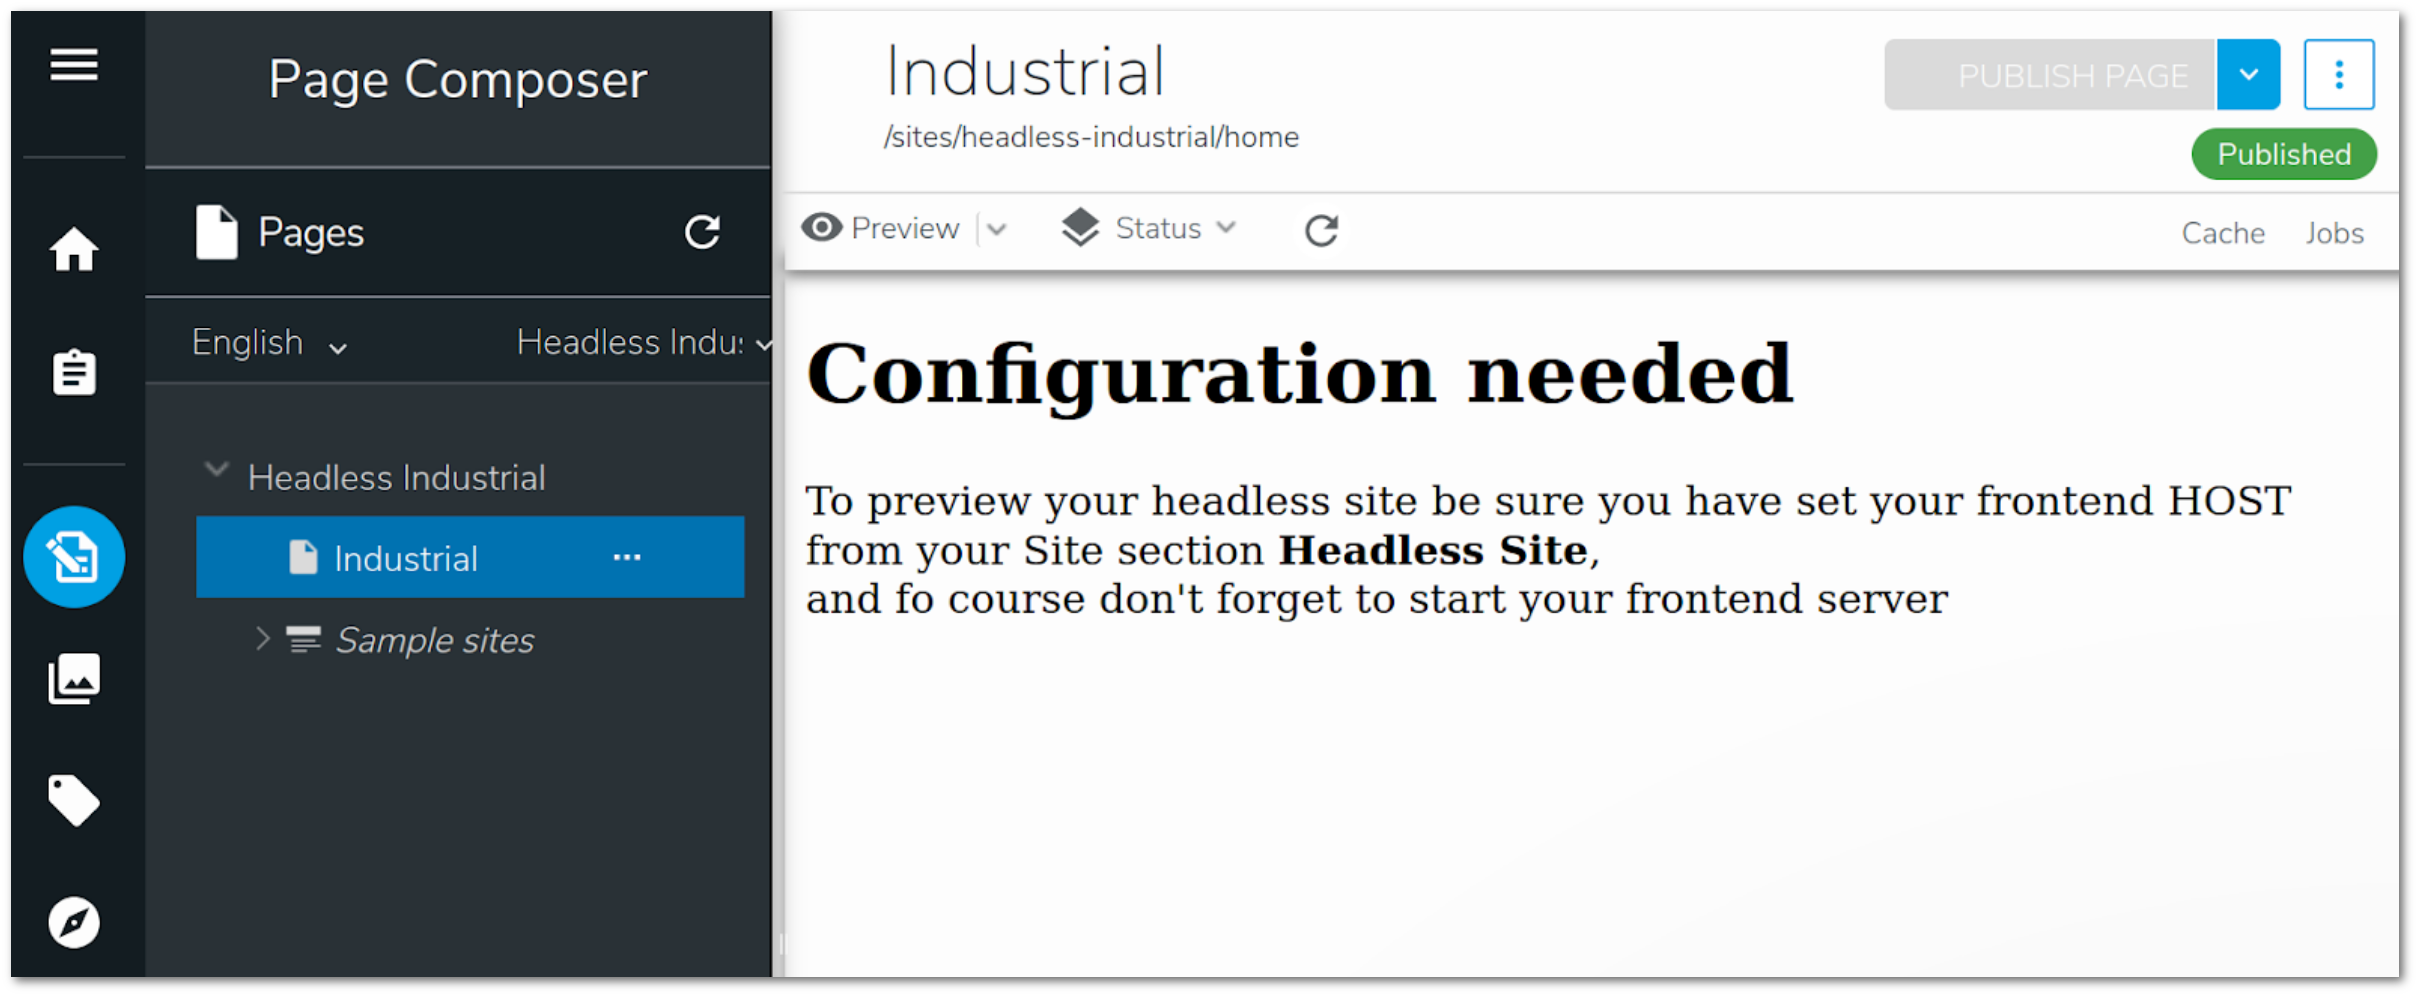
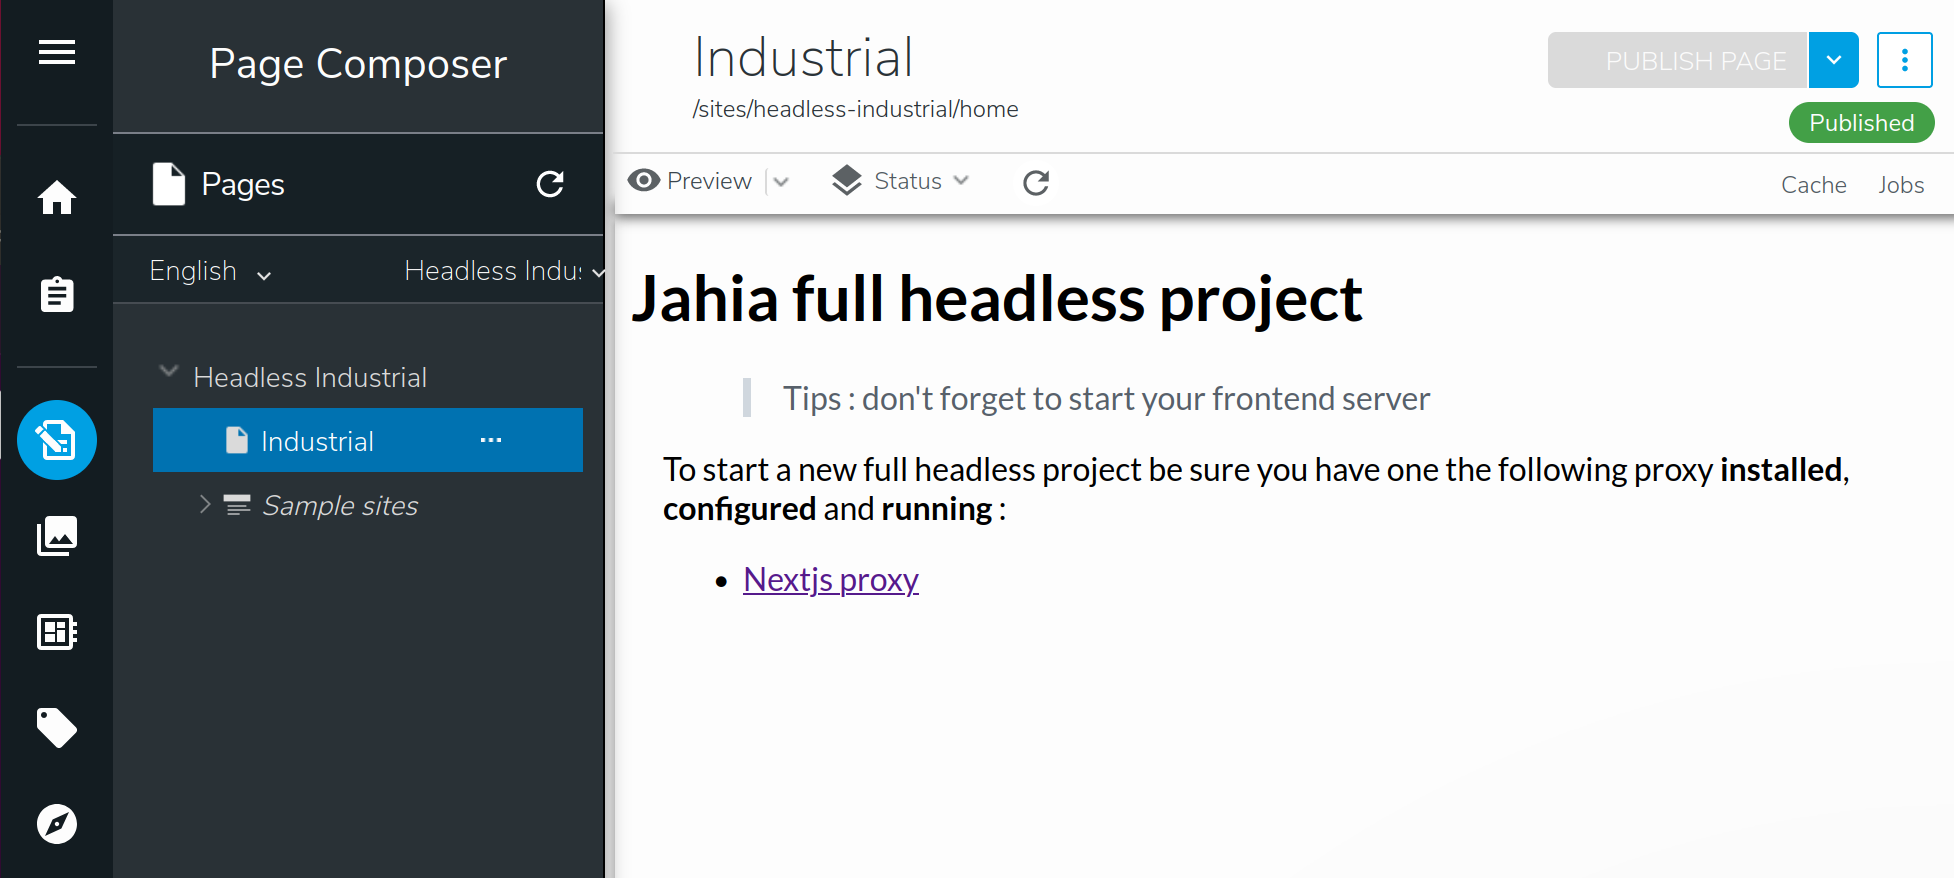
update doc & images

Changed region(s): [[0.0, 0.0, 1.0, 1.0], [0.3746, 0.6458, 0.4683, 0.6765]]

diff --git a/doc/setup.md b/doc/setup.md
@@ -20,6 +20,7 @@ The website you will deploy is inspired by the Industrial template.
     - [Configure nexus credential](#configure-nexus-credential)
     - [Start](#start)
 - [Cloud Setup](#cloud-setup)
+  - [Overview](#deployment-overview)
   - [Jahia](#jahia)
     - [Personal API Token](#personal-api-token)
     - [Jahia provisioning](#jahia-provisioning)
@@ -35,7 +36,7 @@ The website you will deploy is inspired by the Industrial template.
   - [Jahia Post-configuration](#jahia-post-configuration)
     - [Configure access to vercel site in Jahia](#configure-access-to-vercel-site-in-jahia)
   - [Handle CORS issue](#handle-cors-issue)
-    - [Yaml configuration file](#yaml-configuration-file)
+    - [Json configuration script](#json-configuration-script)
     - [Call the provisioning API](#call-the-provisioning-api)
 
 ## Modules involved
@@ -43,6 +44,7 @@ Three modules are required to contribute a website in Jahia and to render it in 
 Two modules are deployed in Jahia and one module is deployed in Vercel.
 
 - [headless-templatesSet] : a Jahia Templates Set for headless projects.
+- [nextjs-proxy]: a Jahia modules used to manage Nextjs website in Jahia
 - [jahia-industrial] : this module contains the content definitions to create
 components related to the industrial HTML template.
 - [nextjs-industrial] : this module contains the page templates and content views
@@ -61,15 +63,16 @@ Clone this module in your local file system
 ```shell
 git clone git@github.com:Jahia/jahia-nextjs-initiative.git
 ```
-move to the jahia-nextjs-initiative/[docker-jahia] repository
+go to the jahia-nextjs-initiative/[docker-jahia] repository
 ```shell
 cd jahia-nextjs-initiative/docker-jahia
 ```
 This repository contains :
 - a zip archive named **headless-industrial** which is a jahia web project use by
 content author to manage the headless web site and create new content.
-- yaml provisioning files used later to deploy modules (like [headless-templatesSet], 
-[jahia-industrial], [jExperience]...) and the web project in the fresh jahia docker instance.
+- yaml provisioning files used later to deploy modules (like [headless-templatesSet],
+  [nextjs-proxy], [jahia-industrial], [jExperience]...) and the web project in the fresh
+jahia docker instance.
 - a graphql file to post-configure in the web project the headless properties needs to connect
 the local node server deployed later.
 - a pom file used to build the jahia-next-dev docker image.
@@ -155,6 +158,18 @@ The instructions below are written for an architecture using vercel and
 an instance of Jahia accessible by vercel. Let's assume you have a jahia cloud
 environnement up and runing ([ask for a demo cloud environnement][ask-demo-cloud])
 
+### Deployment overview
+this section resume the five actions to do, to set up the Nextjs initiative project in the cloud:
+- Jahia
+  - Create a personal api token used by next.js app to call jahia api from back to back [>> read more](#personal-api-token)
+  - With a curl call to the Jahia provisioning API, deploy modules and import webproject [>> read more](#jahia-provisioning)
+  - Register the new vercel/next.js instance and the preview secret [>> read more](#jahia-post-configuration)
+- Vercel
+  - Clone and deploy next-js github project from  Jahia repo [>> read more](#next-industrial-webapp-deployment)
+  - Register the Jahia instance via environment variables [>> read more](#next-industrial-webapp-configuration)
+
+
+
 ### Jahia  
 
 #### Personal API Token
@@ -191,7 +206,6 @@ For this tutorial you use a yaml file and you send it with curl.
 To install all the required components into jahia you use the following configuration :
 ```yml
 - addMavenRepository: "https://store.jahia.com/nexus/content/repositories/jahia-public-app-store@id=JahiaStore"
-- addMavenRepository: "https://devtools.jahia.com/nexus/content/groups/internal@id=jahia-internal@snapshots"
 
 # New next.js and industrial modules
 - installBundle:
@@ -201,6 +215,7 @@ To install all the required components into jahia you use the following configur
     - "mvn:org.jahia.se.modules/codemirror-editor/1.1.3"
     - "mvn:org.jahia.se.modules/jahia-industrial"
     - "mvn:org.jahia.se.modules/industrial-media-component/1.0.0"
+    - "mvn:org.jahia.modules/nextjs-proxy"
     - "mvn:org.jahia.se.modules/headless-templatesSet"
       autoStart: true
       uninstallPreviousVersion: true
@@ -394,30 +409,31 @@ So to prevent CORS issues, you have to allow the vercel domain in the api author
 file deployed by the [headless-templatesSet] module.
 
 To update the configuration file, you will again use the provisioning API.
-Don’t forget to use your own vercel domain. As a reminder the one display
+Don’t forget to use your **own vercel domain**. As a reminder the one display
 below is relative to the specific instance deployed as an example in the tutorial.
 
-#### Yaml configuration file
-```yaml
-- editConfiguration: "org.jahia.bundles.api.authorization"
-  configIdentifier: "headless"
-  properties:
-  headless.auto_apply[1].origin: "https://nextjs-industrial-hduchesn.vercel.app"
+#### Json configuration script
+```json
+[
+  {
+    "editConfiguration":"org.jahia.bundles.api.authorization",
+    "configIdentifier":"headless",
+    "properties":{
+      "headless.auto_apply[1].origin":"https://nextjs-industrial-hduchesn.vercel.app"
+    }
+  }
+]
 ```
 #### Call the provisioning API
 ```shell
-curl --request POST \
---url https://headless-jahiapm.internal.cloud.jahia.com/modules/api/provisioning \
+curl -X POST \
+--url https://tech-day-jahiasales.internal.cloud.jahia.com/modules/api/provisioning \
 -u root:root123 \
---header 'Content-Type: application/yaml' \
---data '- editConfiguration: "org.jahia.bundles.api.authorization"
-configIdentifier: "headless"
-properties:
-headless.auto_apply[1].origin: "https://nextjs-industrial-hduchesn.vercel.app"'
+--form script='[{"editConfiguration":"org.jahia.bundles.api.authorization","configIdentifier":"headless","properties":{"headless.auto_apply[1].origin":"https://nextjs-industrial-hduchesn.vercel.app"}}]'
 ```
 Et voilà !
 
->Tip: if you have any issue with Page composer and you want to edit the system
+>Tip: if you have any issue with Page composer, and you want to edit the system
 site node **Headless Industrial** you can do it from Repository Explorer.
 
 [003]: ./images/003_website.png
@@ -455,6 +471,7 @@ site node **Headless Industrial** you can do it from Repository Explorer.
 [xxx]: ./images/setup/xxx_icon.png
 
 [headless-templatesSet]: https://github.com/Jahia/headless-templatesSet
+[nextjs-proxy]: https://github.com/Jahia/nextjs-proxy
 [jahia-industrial]: https://github.com/Jahia/jahia-industrial
 [nextjs-industrial]: https://github.com/Jahia/nextjs-industrial
 [jahia-website]: https://www.jahia.com

diff --git a/README.md b/README.md
@@ -73,7 +73,7 @@ Two modules are deployed in Jahia and one module is deployed in Vercel.
 
 - [headless-templatesSet]: a Jahia Templates Set for headless projects.
 This template set must be used with a proxy to enable headless features.
-- [nextjs-proxy]: a jahia modules used to manage Nextjs website in Jahia. This module provides :
+- [nextjs-proxy]: a Jahia modules used to manage Nextjs website in Jahia. This module provides :
   - an HTTP proxy to redirect edit and preview rendering
   - a mixin to configure paths and token to interact with your Vercel next-js app
   - a mixin and its contentList Initializer to list and select an headless template for your pages 
